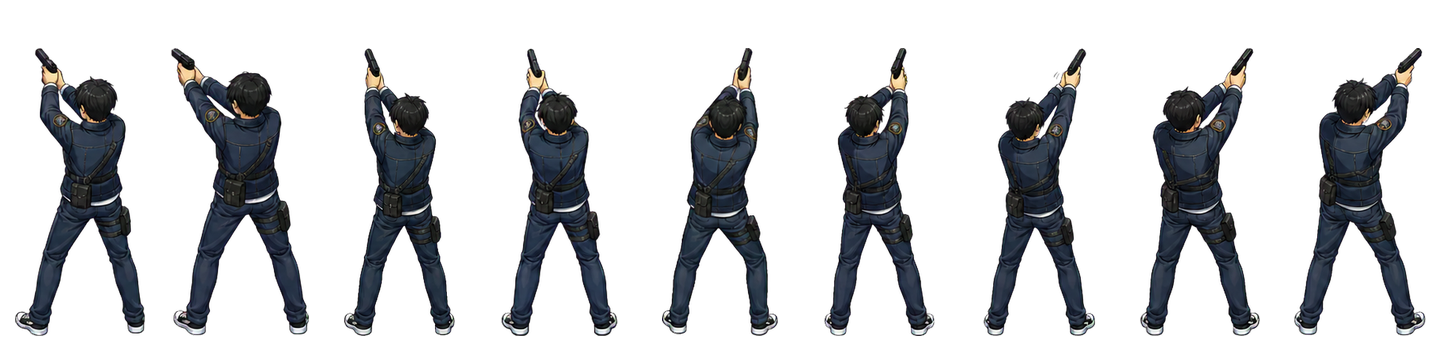
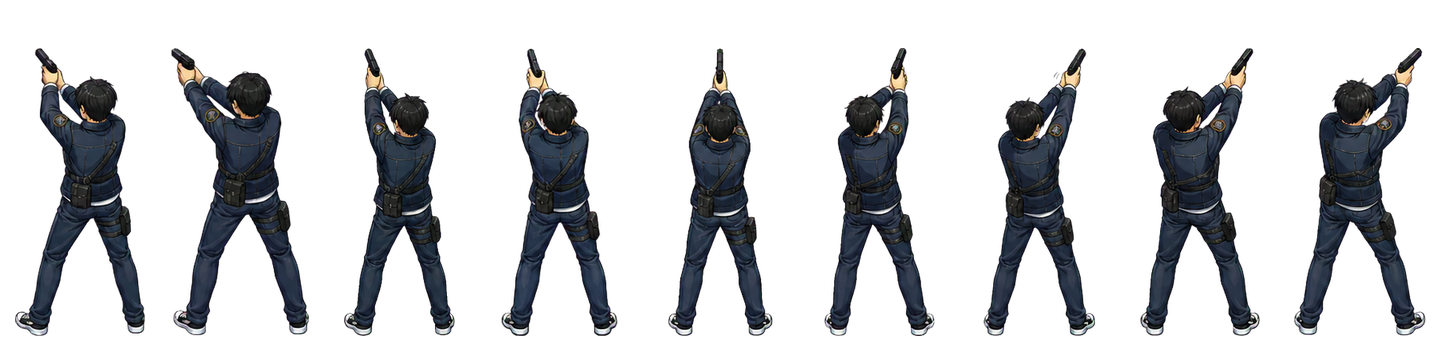
Fix school zombie combat feedback (#4)

Changed region(s): [[0.4375, 0.4862, 0.5625, 0.942], [0.4688, 0.1215, 0.5312, 0.4862]]

diff --git a/school-zombie-defense/js/game.js b/school-zombie-defense/js/game.js
@@ -59,7 +59,7 @@
     return SUPPORTS_WEBP ? path.replace(/\.png$/i, ".webp") : path;
   };
   const ZOMBIE_ASSET_VERSION = "20260712-zombie-death-sync-v4";
-  const CHARACTER_ASSET_VERSION = "20260714-defender-muzzles-v9";
+  const CHARACTER_ASSET_VERSION = "20260718-pistol-forward-v10";
   const TURRET_ASSET_VERSION = "20260712-turret-v2";
   const COMBAT_EFFECT_ASSET_VERSION = "20260712-combat-fx-v2";
   const COMBAT_PROP_ASSET_VERSION = "20260712-combat-props-v2";
@@ -273,6 +273,7 @@
     explosion: { texture: "zombie-hit-rocket-sheet", width: 128, duration: 330, alpha: 0.94, scalePeak: 1.12, rotation: 0.18, frameWidth: 160, frameHeight: 130, frames: 16 },
     default: { texture: "zombie-hit-pistol-sheet", width: 52, duration: 215, alpha: 0.92, scalePeak: 1.04, rotation: 0.1, frameWidth: 112, frameHeight: 96, frames: 12 }
   };
+  const ZOMBIE_HIT_EFFECT_SIZE_MULTIPLIER = 1.35;
   const FIRE_ZONE_ANIMATION_FRAMES = 8;
   const SHOCK_EFFECT_OUTER_COLOR = 0x8f9dff;
   const CHARGER_CHARGE_TINT = 0xffcf9e;
@@ -315,10 +316,10 @@
   const ZOMBIE_DEATH_ANIMATION_FRAMES = 4;
   const NORMAL_ZOMBIE_DEATH_ANIMATION_FRAMES = 12;
   const ZOMBIE_DEATH_ANIMATION_FRAME_SIZE = 512;
-  // Keep the hit reaction visible without letting a corpse settle far above the position where the fall began.
-  const ZOMBIE_DEATH_VERTICAL_KNOCKBACK_SCALE = 0.24;
-  const ZOMBIE_DEATH_VERTICAL_KNOCKBACK_LIMIT_RATIO = 0.07;
-  const ZOMBIE_DEATH_LANDING_RISE_LIMIT_RATIO = 0.02;
+  // Carry the lethal hit into the fall while keeping extreme knockback inside the combat lane.
+  const ZOMBIE_DEATH_VERTICAL_KNOCKBACK_SCALE = 1;
+  const ZOMBIE_DEATH_VERTICAL_KNOCKBACK_LIMIT_RATIO = 0.35;
+  const ZOMBIE_DEATH_LANDING_RISE_LIMIT_RATIO = 0.28;
   const ZOMBIE_DEATH_TYPES = [
     "normal",
     "student",
@@ -8880,7 +8881,7 @@
     }
 
     createImpactSprite(effect, hitPoint, sizeScale, rotation, depth) {
-      const displayWidth = effect.width * sizeScale;
+      const displayWidth = effect.width * sizeScale * ZOMBIE_HIT_EFFECT_SIZE_MULTIPLIER;
       const displayHeight = displayWidth * effect.frameHeight / effect.frameWidth;
       const impact = this.trackHitEffectRoot(this.trackTransient(this.add.sprite(
         hitPoint.x,
@@ -9215,18 +9216,19 @@
       );
       const shoveX = this.clampZombieLaneX(corpseX + knockbackDx);
       const shoveY = clamp(y + deathKnockbackDy, -48, this.bounds.barricade - displayH * 0.14);
+      const deathFallTravelY = displayH * fall.y * 0.35;
       const landingX = this.clampZombieLaneX(shoveX + displayH * fall.x + rand(-6, 6));
       const landingY = clamp(
         Math.max(
           y - displayH * ZOMBIE_DEATH_LANDING_RISE_LIMIT_RATIO,
-          shoveY + displayH * fall.y + rand(-4, 5)
+          shoveY + deathFallTravelY + rand(-4, 5)
         ),
         -20,
         this.bounds.barricade - displayH * 0.1
       );
       const finalAngle = fall.angle + rand(-5, 5);
       const stumbleX = this.clampZombieLaneX(corpseX + (shoveX - corpseX) * 0.62 + displayH * fall.x * 0.16);
-      const stumbleY = y + (shoveY - y) * 0.62 + displayH * (0.02 + fall.y * 0.14);
+      const stumbleY = y + (shoveY - y) * 0.9 + displayH * (0.006 + fall.y * 0.05);
       const deathPushDuration = deathKnockback
         ? clamp((deathKnockback.duration || 110) * 0.62, 72, 140)
         : rand(70, 112);
@@ -10746,6 +10748,8 @@
         .setDepth(525);
       const icon = this.add.image(x - 166, y, isRecruit ? recruitPortraitTexture : upgrade.icon).setDepth(526);
       icon.setDisplaySize(isRecruit ? 92 : 78, isRecruit ? 92 : 78);
+      const iconBaseScaleX = icon.scaleX;
+      const iconBaseScaleY = icon.scaleY;
       const ownerHalo = hasOwnerCharacter
         ? this.add.circle(x - 132, y + 34, 21, 0x020507, 0.92).setStrokeStyle(2, accent, 0.72).setDepth(526)
         : null;
@@ -10866,7 +10870,10 @@
       const setHover = (active) => {
         panel.glow.setAlpha(active ? 0.18 : 0.075);
         portraitHalo.setScale(active ? 1.05 : 1);
-        icon.setScale(active ? 1.035 : 1);
+        icon.setScale(
+          iconBaseScaleX * (active ? 1.035 : 1),
+          iconBaseScaleY * (active ? 1.035 : 1)
+        );
         chooseBg.setFillStyle(active ? accent : 0x101820, active ? 0.35 : 0.92);
         chooseText.setScale(active ? 1.04 : 1);
       };

diff --git a/school-zombie-defense/index.html b/school-zombie-defense/index.html
@@ -52,7 +52,7 @@
     "isAccessibleForFree": true,
     "playMode": "SinglePlayer",
     "numberOfPlayers": { "@type": "QuantitativeValue", "value": 1 },
-    "dateModified": "2026-07-12"
+    "dateModified": "2026-07-18"
   }
   </script>
   <script async src="https://www.googletagmanager.com/gtag/js?id=G-66FS0YCEEM"></script>
@@ -92,6 +92,6 @@
   </aside>
   <noscript>이 게임을 플레이하려면 JavaScript가 필요합니다.</noscript>
   <script src="../assets/vendor/phaser/phaser-4.2.0.min.js"></script>
-  <script src="js/game.js?v=20260716-rank-retry-v1"></script>
+  <script src="js/game.js?v=20260718-combat-visuals-v2"></script>
 </body>
 </html>
